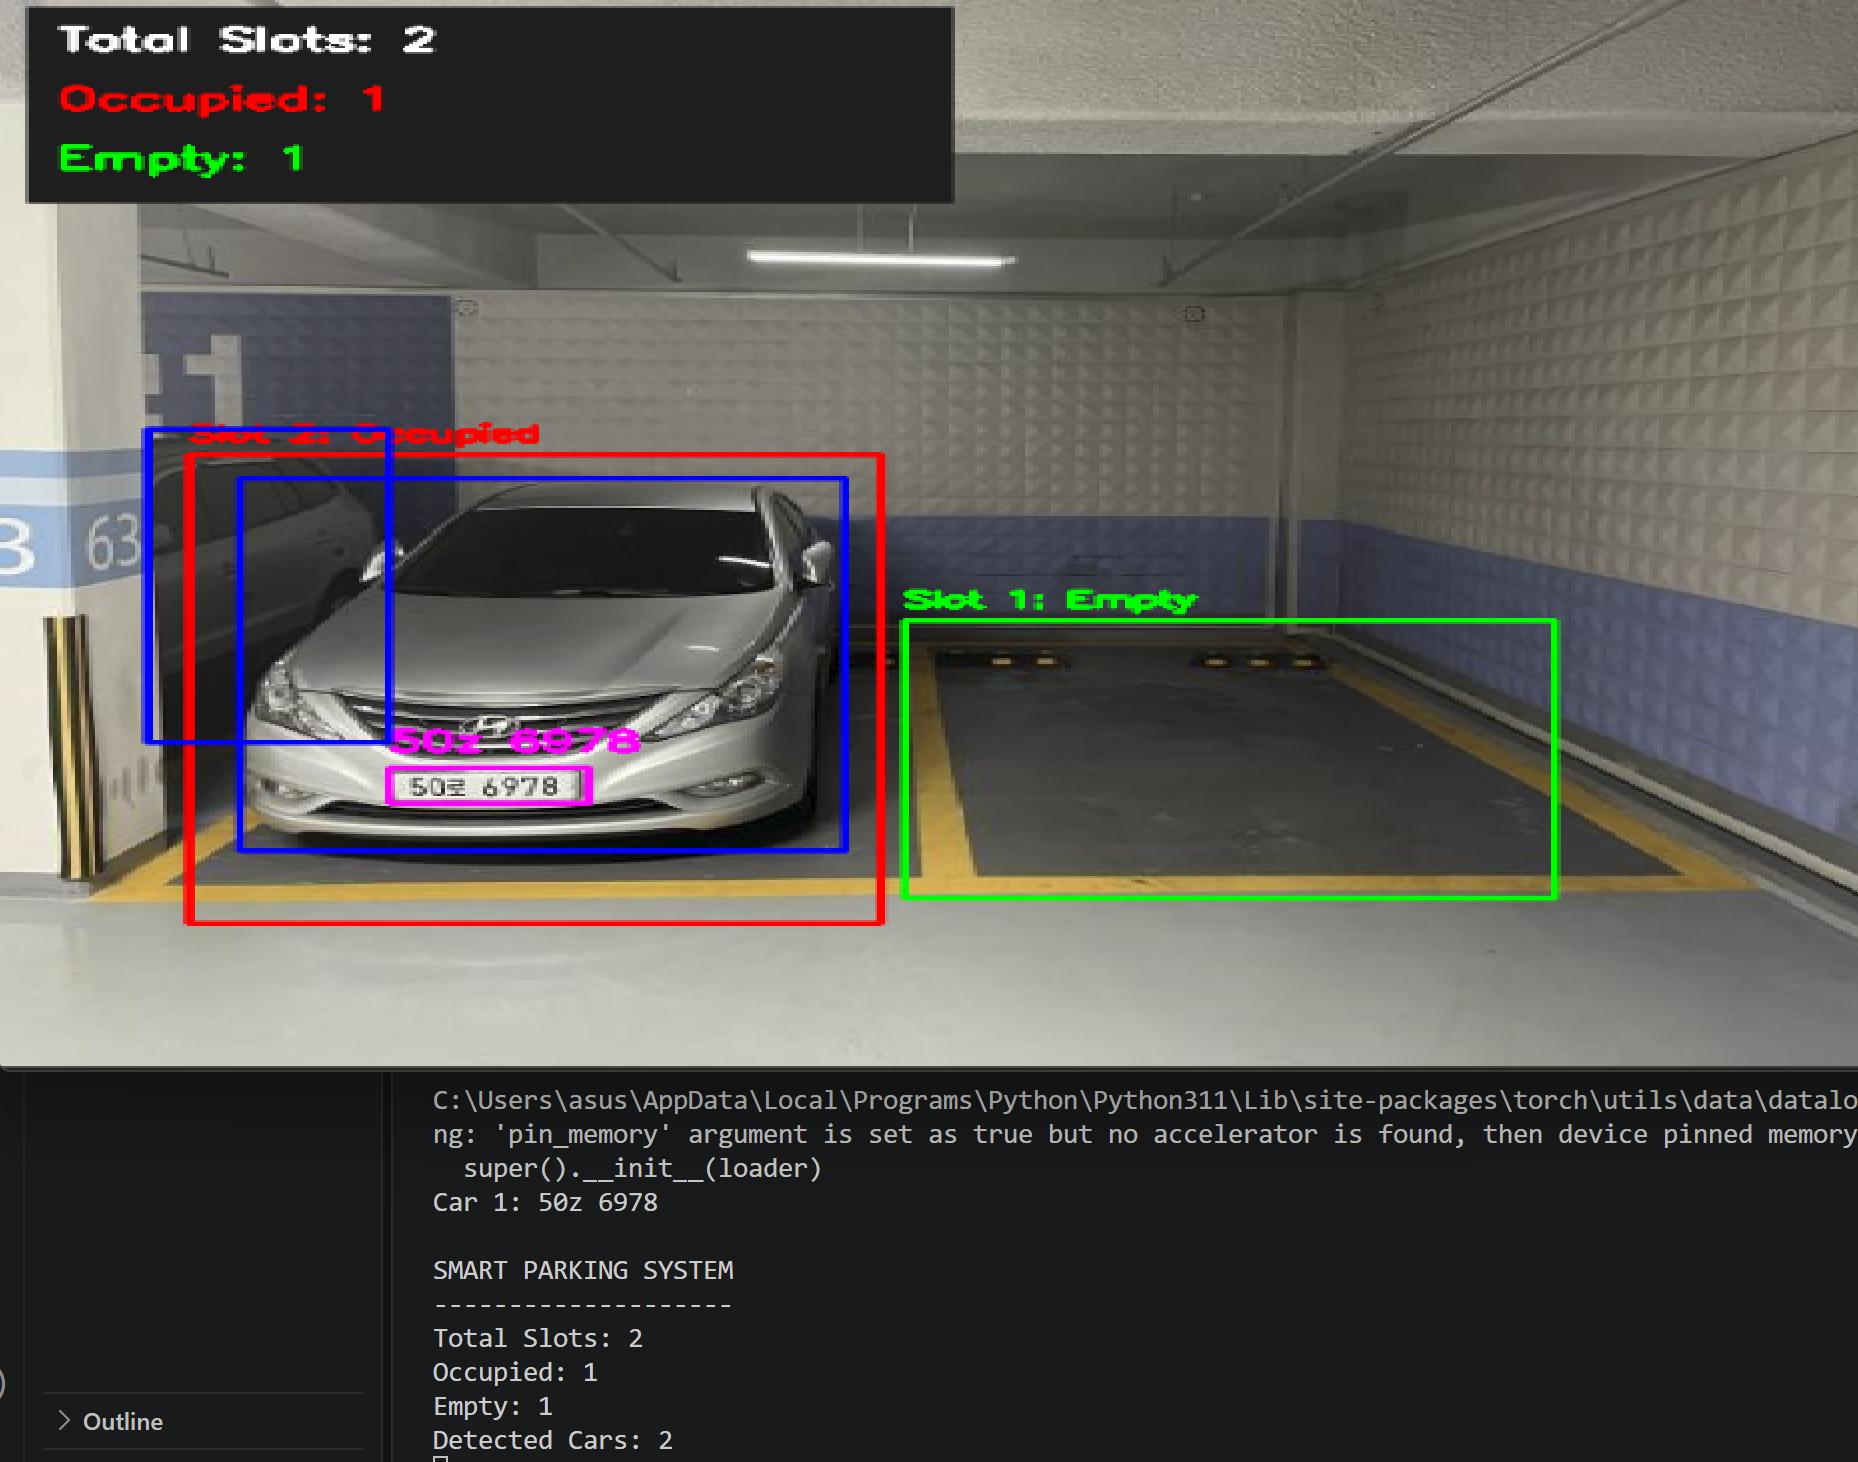
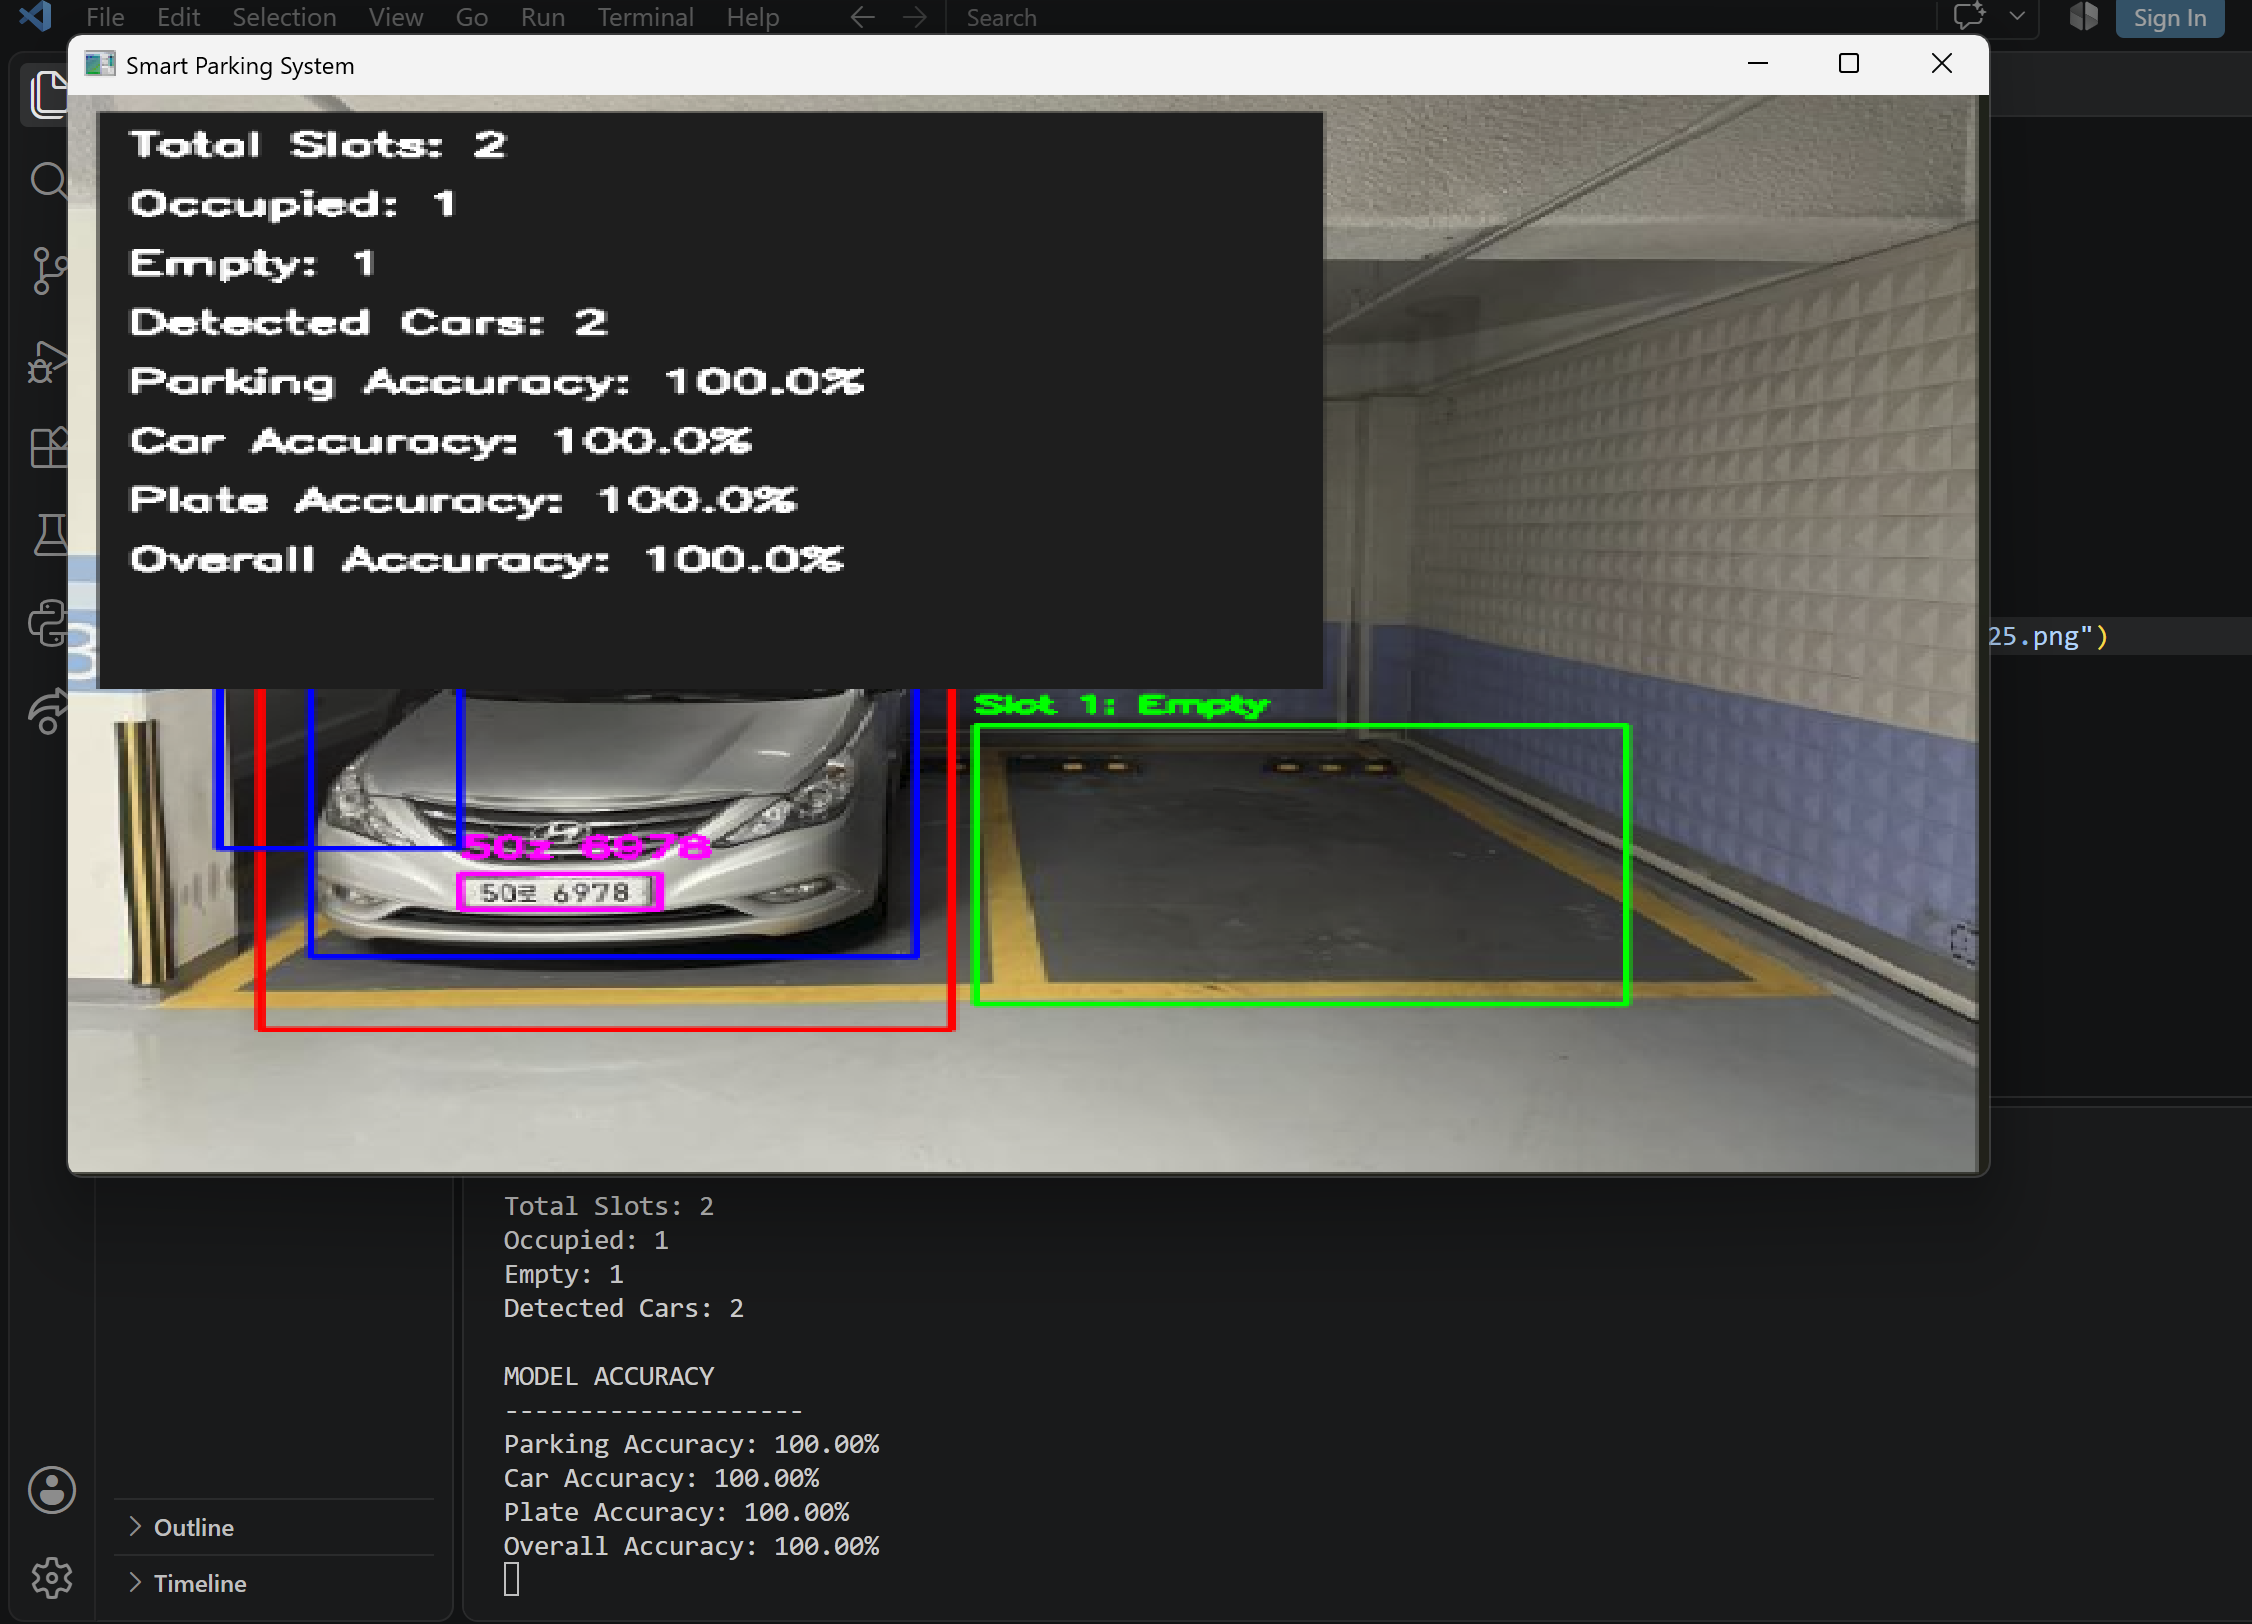
Update smart parking system code and dataset images

diff --git a/mainn.py b/mainn.py
@@ -10,7 +10,7 @@ car_model = YOLO("yolov8n.pt")
 plate_model = YOLO(path + r"\my_model.pt")
 reader = easyocr.Reader(['en'])
 
-frame = cv2.imread(r"C:\Users\asus\Desktop\parking spot project\Screenshot 2026-11-14 082716.png")
+frame = cv2.imread(r"C:\Users\asus\Desktop\parking spot project\Screenshot_2026-11-13_152525.png")
 
 if frame is None:
     print("Error: Image not found")
@@ -65,6 +65,7 @@ for result in slot_results:
                     cv2.FONT_HERSHEY_SIMPLEX, 0.45, color, 2)
 
 plate_file = path + r"\car_plate_data.txt"
+recognized_plates = []
 
 for car_index, (cx1, cy1, cx2, cy2) in enumerate(car_boxes):
 
@@ -99,6 +100,8 @@ for car_index, (cx1, cy1, cx2, cy2) in enumerate(car_boxes):
             cv2.rectangle(frame, (x1, y1), (x2, y2), (255, 0, 255), 2)
 
             if plate_text:
+                recognized_plates.append(plate_text)
+
                 current_time = datetime.now().strftime("%Y-%m-%d %H:%M:%S")
 
                 print(f"Car {car_index + 1}: {plate_text}")
@@ -111,15 +114,58 @@ for car_index, (cx1, cy1, cx2, cy2) in enumerate(car_boxes):
 
 total_slots = occupied_count + empty_count
 
-cv2.rectangle(frame, (10, 10), (320, 125), (30, 30, 30), -1)
+actual_total_slots = 2
+actual_occupied = 1
+actual_empty = 1
+actual_cars = 2
+actual_plates = ["50z6978"]
 
-for y, label, value, color in [
-    (35, "Total Slots", total_slots, (255, 255, 255)),
-    (70, "Occupied", occupied_count, (0, 0, 255)),
-    (105, "Empty", empty_count, (0, 255, 0))
-]:
-    cv2.putText(frame, f"{label}: {value}", (20, y),
-                cv2.FONT_HERSHEY_SIMPLEX, 0.6, color, 2)
+def normalize_plate(text):
+    return "".join(c.lower() for c in text if c.isalnum())
+
+parking_checks = [
+    total_slots == actual_total_slots,
+    occupied_count == actual_occupied,
+    empty_count == actual_empty
+]
+
+parking_accuracy = sum(parking_checks) / len(parking_checks) * 100
+
+car_accuracy = (
+    100 if len(car_boxes) == actual_cars else 0
+)
+
+detected_plates = [
+    normalize_plate(plate) for plate in recognized_plates
+]
+
+correct_plates = sum(
+    1 for plate in actual_plates
+    if normalize_plate(plate) in detected_plates
+)
+
+plate_accuracy = correct_plates / len(actual_plates) * 100
+
+overall_accuracy = (
+    parking_accuracy + car_accuracy + plate_accuracy
+) / 3
+
+cv2.rectangle(frame, (10, 10), (420, 350), (30, 30, 30), -1)
+
+results_text = [
+    f"Total Slots: {total_slots}",
+    f"Occupied: {occupied_count}",
+    f"Empty: {empty_count}",
+    f"Detected Cars: {len(car_boxes)}",
+    f"Parking Accuracy: {parking_accuracy:.1f}%",
+    f"Car Accuracy: {car_accuracy:.1f}%",
+    f"Plate Accuracy: {plate_accuracy:.1f}%",
+    f"Overall Accuracy: {overall_accuracy:.1f}%"
+]
+
+for i, text in enumerate(results_text):
+    cv2.putText(frame, text, (20, 35 + i * 35),
+                cv2.FONT_HERSHEY_SIMPLEX, 0.6, (255, 255, 255), 2)
 
 height, width = frame.shape[:2]
 scale = min(960 / width, 540 / height)
@@ -131,6 +177,13 @@ print(f"Total Slots: {total_slots}")
 print(f"Occupied: {occupied_count}")
 print(f"Empty: {empty_count}")
 print(f"Detected Cars: {len(car_boxes)}")
+
+print("\nMODEL ACCURACY")
+print("--------------------")
+print(f"Parking Accuracy: {parking_accuracy:.2f}%")
+print(f"Car Accuracy: {car_accuracy:.2f}%")
+print(f"Plate Accuracy: {plate_accuracy:.2f}%")
+print(f"Overall Accuracy: {overall_accuracy:.2f}%")
 
 cv2.namedWindow("Smart Parking System", cv2.WINDOW_NORMAL)
 cv2.imshow("Smart Parking System", display_frame)
